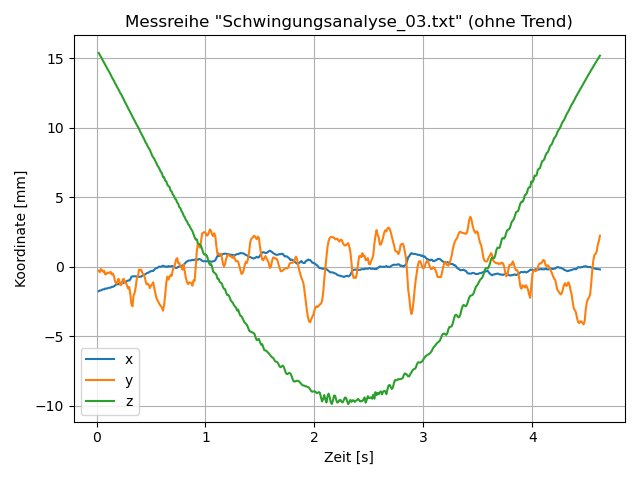
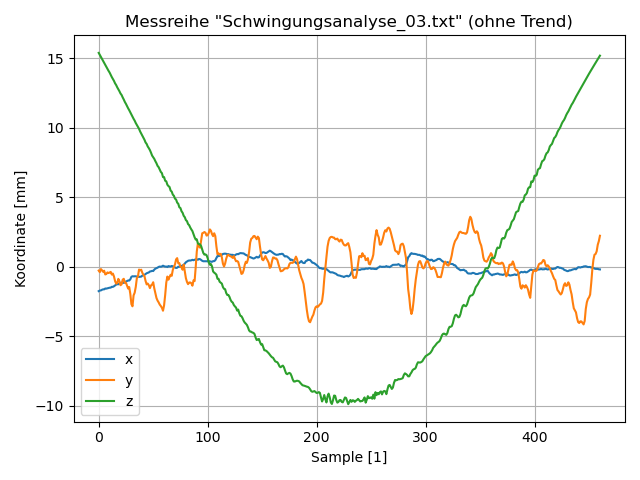
Updated graphs

diff --git a/übung4/schwingungsanalyse_main.py b/übung4/schwingungsanalyse_main.py
@@ -36,7 +36,7 @@ from scipy import signal
 
 verbose = True  # Shows more debugging information
 fix_steigung = False  # Disregards permanent sensor changes
-show_graphs = False  # If disabled, the Plots will not be shown.
+show_graphs = True  # If disabled, the Plots will not be shown.
 
 
 # Functions
@@ -74,7 +74,7 @@ def run_analysis(input_file):
     if(verbose):
         print("")
     if(show_graphs):
-        plot_xyzt(datenreihen_ohne_zeit, datenreihen[0], f'Messreihe "{input_file}"')
+        plot_xyzs(datenreihen_ohne_zeit, f'Messreihe "{input_file}"')
     
     # Berechnung der linearen Regression von Sensor 1
     x = np.array(datenreihen[0])
@@ -108,9 +108,9 @@ def run_analysis(input_file):
         linearisierung[2].append(i*steigung_3+offset_3)
     # Plot der linearen Regression
     if(show_graphs):
-        plot_werte_t([datenreihen[1], linearisierung[0]], datenreihen[0], ["X", "Linearisierung"])
-        plot_werte_t([datenreihen[2], linearisierung[1]], datenreihen[0], ["Y", "Linearisierung"])
-        plot_werte_t([datenreihen[3], linearisierung[2]], datenreihen[0], ["Z", "Linearisierung"])
+        plot_werte_s([datenreihen[1], linearisierung[0]], ["X", "Linearisierung"])
+        plot_werte_s([datenreihen[2], linearisierung[1]], ["Y", "Linearisierung"])
+        plot_werte_s([datenreihen[3], linearisierung[2]], ["Z", "Linearisierung"])
 
     # Wenn Steigung nicht bereinigt werden soll
     if(fix_steigung):
@@ -136,7 +136,7 @@ def run_analysis(input_file):
         print("")
     # Plot der vom Trend bereinigten Sensorreihen
     if(show_graphs):
-        plot_xyzt(datenreihen_ohne_trend, datenreihen[0], f'Messreihe "{input_file}" (ohne Trend)')
+        plot_xyzs(datenreihen_ohne_trend, f'Messreihe "{input_file}" (ohne Trend)')
 
     # Low-Pass-Filterung der Sensorreihen
     low_pass_strength = 20
@@ -149,7 +149,7 @@ def run_analysis(input_file):
         print("")
     # Plot der low-pass Sensorreihen
     if(show_graphs):
-        plot_xyzt(datenreihen_low_pass, datenreihen[0], f'Messreihe "{input_file}" (mit Low-Pass-Filter)')
+        plot_xyzs(datenreihen_low_pass, f'Messreihe "{input_file}" (mit Low-Pass-Filter)')
 
     # Hoch-Pass-Filterung der Sensorreihen
     datenreihen_hoch_pass = [[], [], []]
@@ -169,7 +169,7 @@ def run_analysis(input_file):
         print("")
     # Plot der hoch-pass Sensorreihen
     if(show_graphs):
-        plot_xyzt(datenreihen_hoch_pass, datenreihen[0], f'Messreihe "{input_file}" (mit Hoch-Pass-Filter)')
+        plot_xyzs(datenreihen_hoch_pass, f'Messreihe "{input_file}" (mit Hoch-Pass-Filter)')
 
     # Fourier-Transformation
 
@@ -239,40 +239,40 @@ def plot_werte(datenreihen, name=["Messwerte"]):
     plt.show()
 
 
-def plot_werte_t(datenreihen, zeit, name=["Messwerte"]):
+def plot_werte_s(datenreihen, name=["Messwerte"]):
     """
-    Diese Funktion plottet Werte an eine Zeitachse.
+    Diese Funktion plottet Werte als Samples.
 
     Args:
-        datenreihen ([type]): Datenreihen zum Plotten
-        zeit ([type]): Eine Liste mit der Angabe der Zeitintervalle.
+        datenreihen ([type]): Datenreihen zum Plotten.
         name (list, optional): Angaben zur Beschriftung. Defaults to ["Messwerte"].
     """
     for i, datenreihe in enumerate(datenreihen):
+        zeit = range(len(datenreihe))
         plt.plot(zeit, datenreihe)
     plt.legend(name)
     plt.grid()
-    plt.xlabel("Zeit [s]")
+    plt.xlabel("Sample [1]")
     plt.ylabel("Koordinate [mm]")
     plt.title(name[0])
     plt.tight_layout()
     plt.show()
 
 
-def plot_xyzt(datenreihen, zeit, name="Messwerte"):
+def plot_xyzs(datenreihen, name="Messwerte"):
     """
     Diese Funktion nimmt genau drei Datenreihen und plottet diese in ein Diagramm.
 
     Args:
         datenreihen ([list]): Drei Datenreihen zum Plotten.
-        zeit ([list]): Eine Liste mit der Angabe der Zeitintervalle.
         name (list, optional): Dies ist der Titel. Defaults to "Messwerte".
     """
     for i, datenreihe in enumerate(datenreihen):
+        zeit = range(len(datenreihe))
         plt.plot(zeit, datenreihe)
     plt.legend(["x", "y", "z"])
     plt.grid()
-    plt.xlabel("Zeit [s]")
+    plt.xlabel("Sample [1]")
     plt.ylabel("Koordinate [mm]")
     plt.title(name)
     plt.tight_layout()
